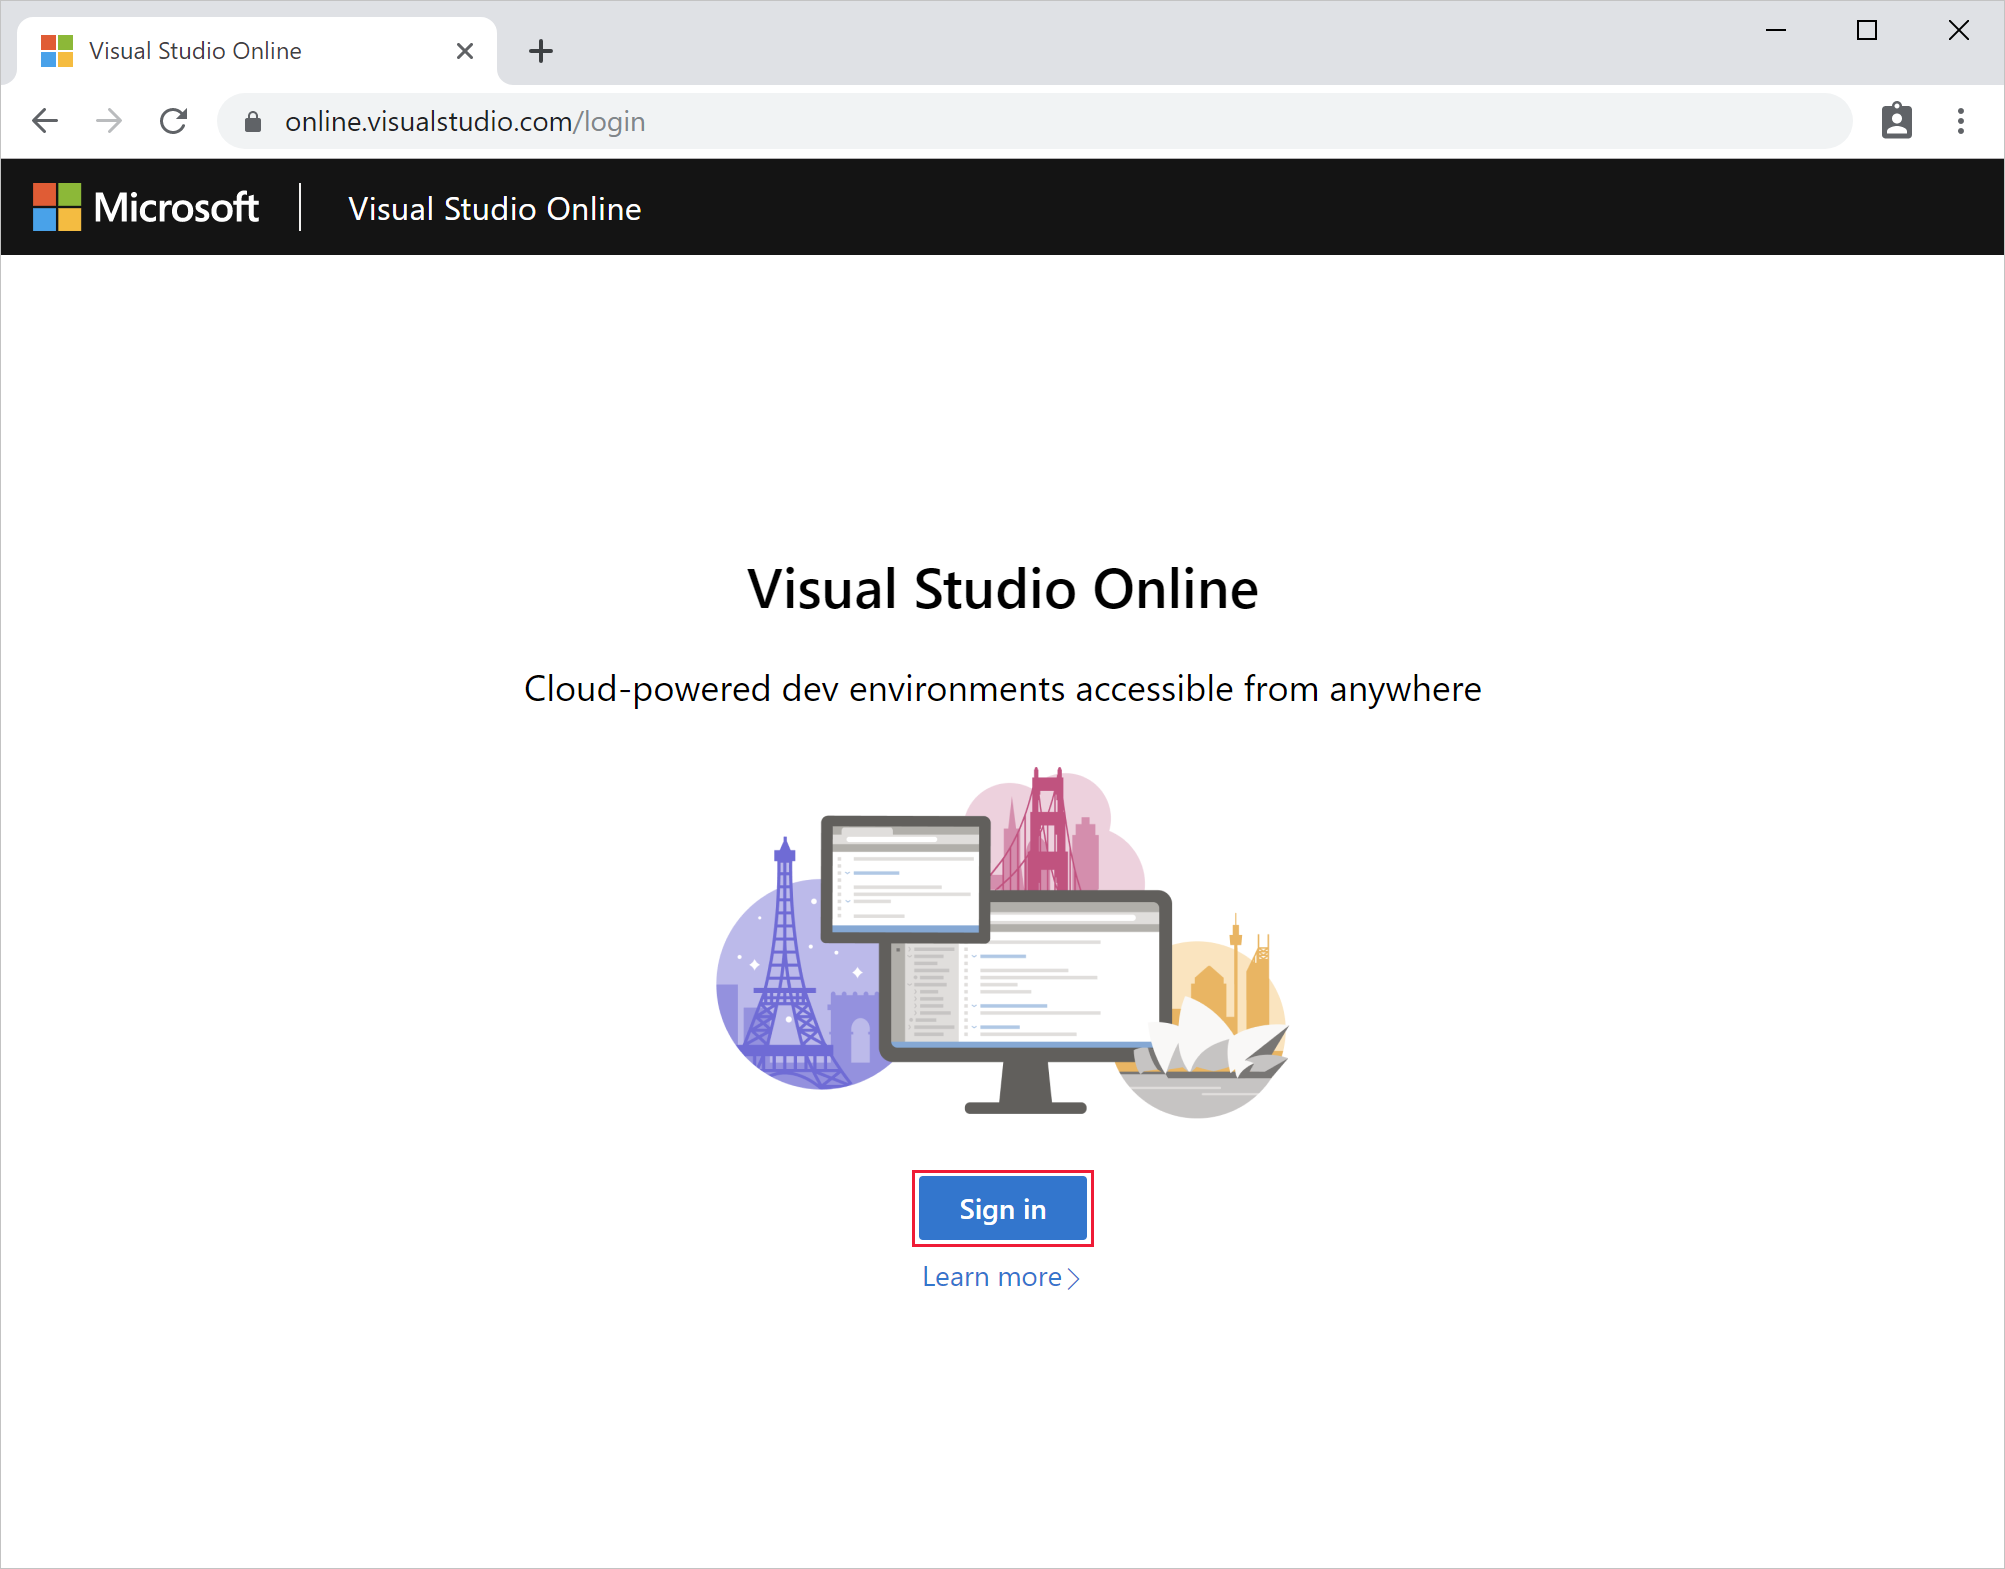
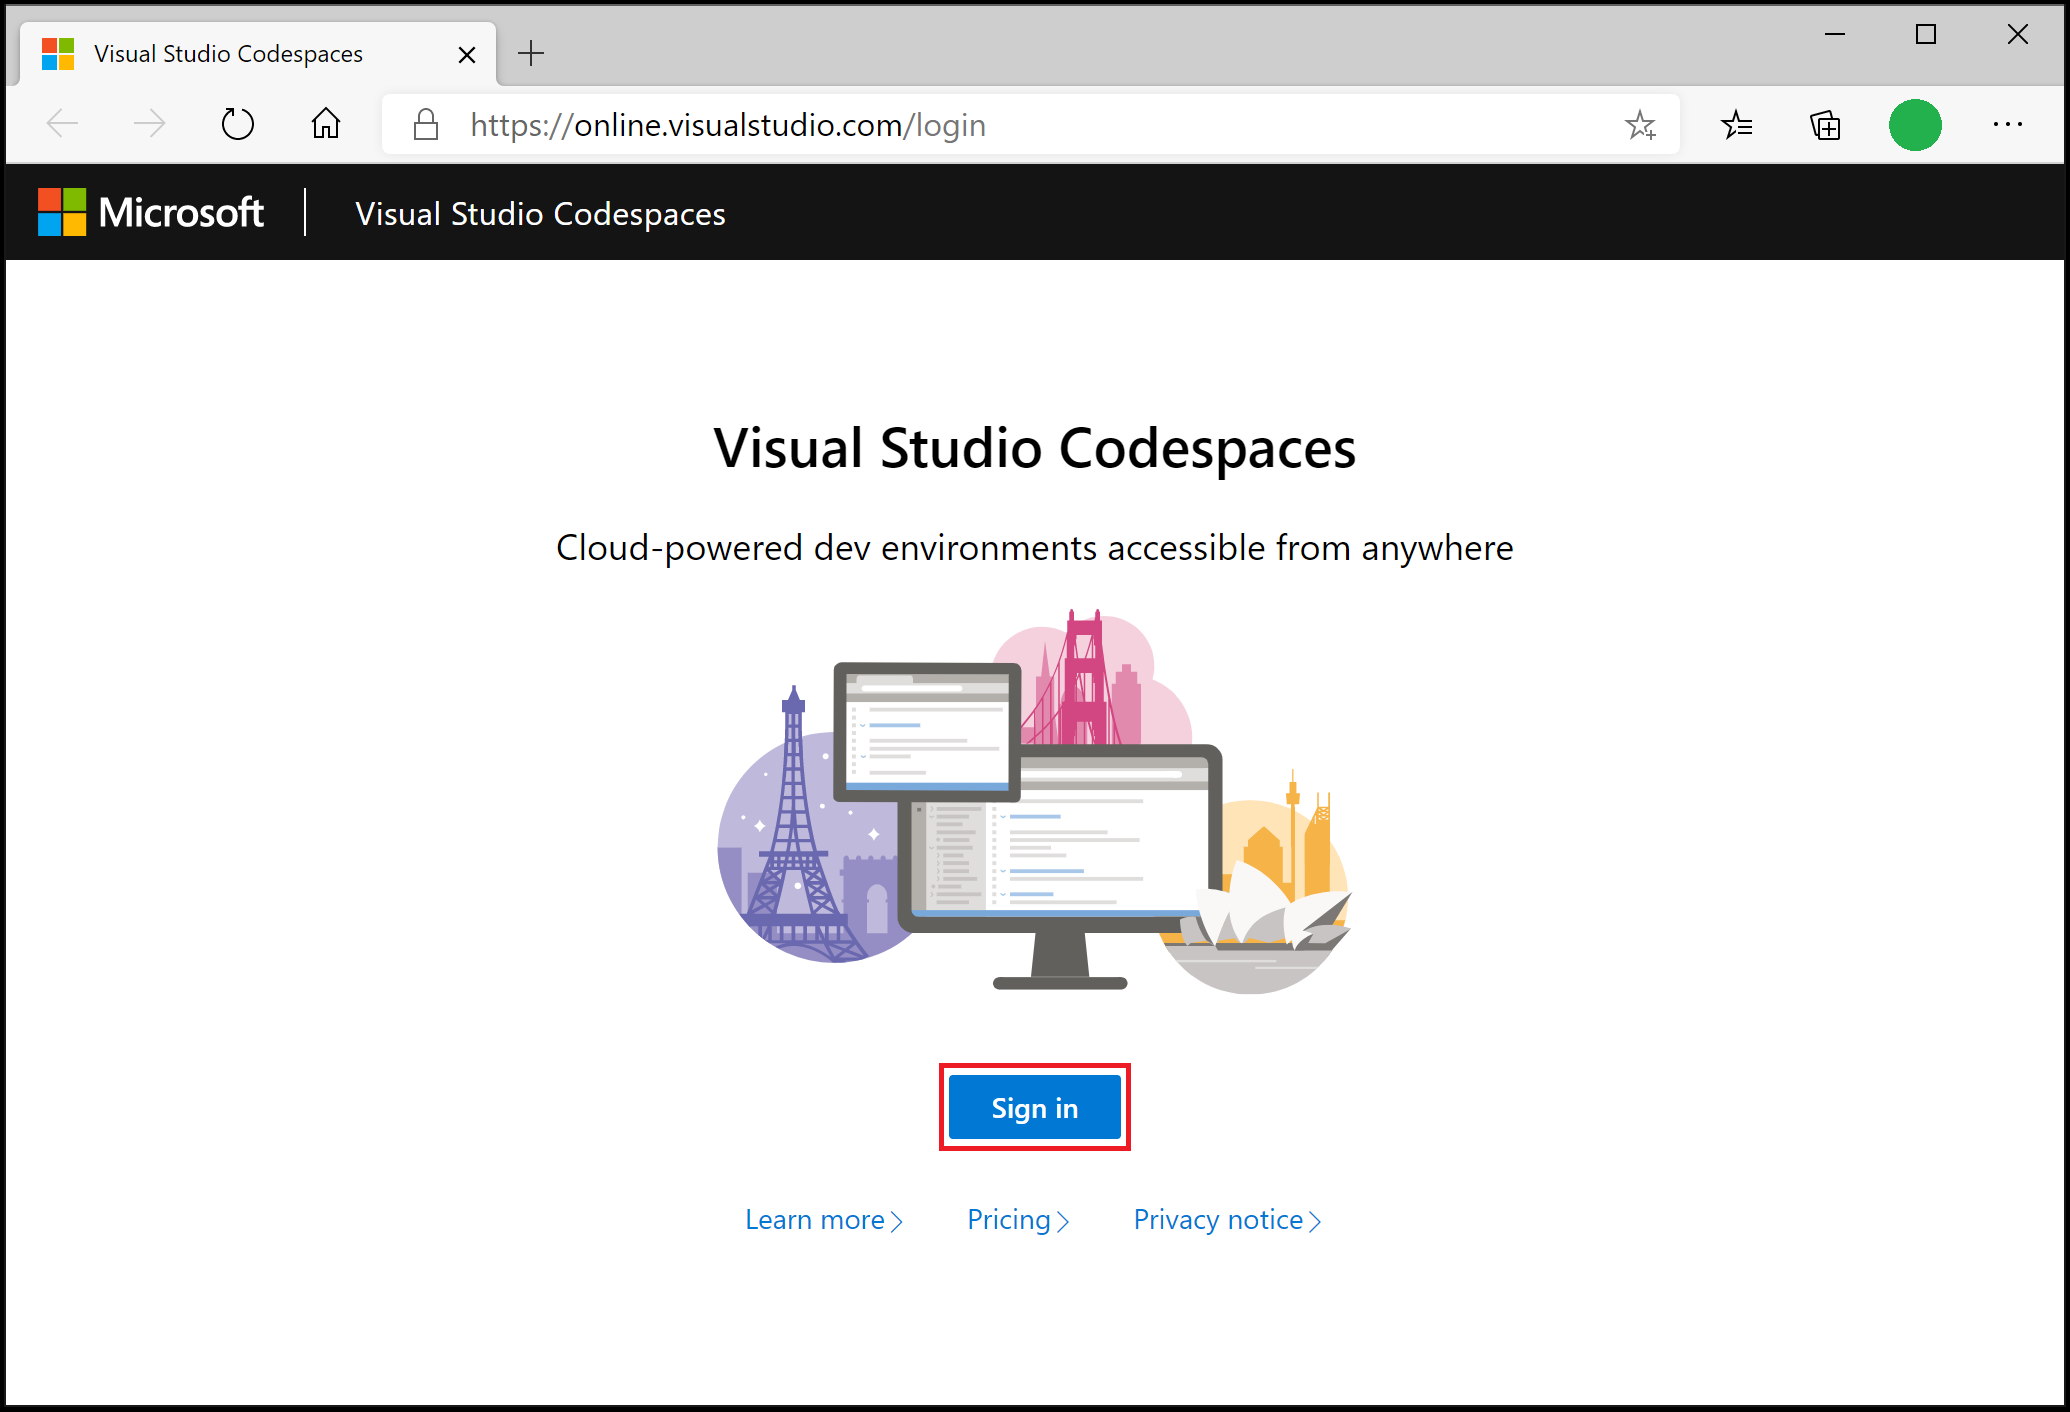
Update browser quickstart

diff --git a/vscodespaces/quickstarts/browser.md b/vscodespaces/quickstarts/browser.md
@@ -11,7 +11,7 @@ ms.date: 05/13/2020
 
 Visual Studio Codespaces provides cloud-powered development environments for any activity - whether it's a long-term project, or a short-term task like reviewing a pull request. You can work with these environments from Visual Studio Code, Visual Studio 2019 ([sign up for the Private Preview](https://aka.ms/vsfutures-signup)), or a browser-based editor that's accessible anywhere! You can even connect your own self-hosted environments to Visual Studio Codespaces at no cost.
 
-Additionally, Visual Studio Codespaces brings many of the benefits of DevOps, like repeatability and reliability, which have typically been reserved for production workloads, to development environments. However, Visual Studio Codespaces is also personaliazable to allow developers to leverage the tools, processes and configurations that they have come to love and rely on - truly the best of both worlds!
+Additionally, Visual Studio Codespaces brings many of the benefits of DevOps, like repeatability and reliability, which have typically been reserved for production workloads, to development environments. However, Visual Studio Codespaces is also personaliazable to allow developers to leverage the tools, processes, and configurations that they have come to love and rely on - truly the best of both worlds!
 
 This document will walk you through how to install Codespaces, create a cloud-hosted environment, connect to it, run and debug the environment's application, disconnect and delete the environment.
 
@@ -28,64 +28,69 @@ Follow the prompts in the pop-up dialog to complete sign in.
 
 ## 2. Create a plan
 
-A Codespaces plan is required to create Codespaces environments. To create a new plan and either use the blue **Create new plan** button, or by click the **Create new plan** in the **Plan Selector** menu in the header bar.
+A Codespaces plan is required to create Codespaces environments. To create a new plan, use either the **Create new plan** item in the **Plan Selector** menu in the header bar or the **Create Codespace** button, which will create a new plan as part of the create codespace workflow.
 
 ![Create Visual Studio Codespaces plan](../images/create-plan-vso-01.png)
 
 Fill in the form with the following information:
 
 - **Subscription**: Choose any existing Azure subscription you'd like.
-- **Resource Group**: Choose any existing Azure resource group you'd like.
-- **Region**: Choose the supported regions geographically closest to you. Supported regions are:
+- **Location**: Choose the supported regions geographically closest to you. Supported locations are:
   - East US
   - Southeast Asia
   - West Europe
   - West US 2
-- **Plan Name**: My-VSO-Plan
+
+And under **Advanced Options**, you can leave the automatically generated values or set your own for:
+
+- **Plan Name**: For example: "My-Codespaces-Plan"
+- **Resource Group**: Choose any existing Azure resource group you'd like. A new resource group will be created if an existing one isn't specified.
 
 Once a plan is created, it will be the selected plan in the **Plan Selector**.
 
 > [!TIP]
-> More information about plans and pricing is available on [the Codespaces pricing page](https://aka.ms/vso-pricing).
+> More information about plans and pricing is available on the [Codespaces pricing page](https://aka.ms/vso-pricing).
 
-## 3. Create an environment
+## 3. Create a codespace
 
-To create a new cloud-hosted environment in Codespaces select the **Create environment** button in the Codespaces management portal.
-
-![Create environment in Visual Studio Code](../images/create-env-vso-01.png)
+To create a new cloud-hosted codespace, fill in the **Create Codespace** form. The form will be shown after you create a plan if you selected the **Create Codespace** button earlier or by selecting the **Create Codespace** button now in the Codespaces management portal.
 
 Complete the form with the following values:
 
-- **Environment Name**: My Quick Environment
+- **Codespace Name**: My Quick Environment
 - **Git Repository**: microsoft/vsonline-quickstart
-- **Put environment to sleep after...**: 30 minutes
-- **Instance Type**: Standard Environment (Linux)
+- **Instance Type**: Standard (Linux)
+- **Suspend idle Codespace after...**: 30 minutes
 
 > [!TIP]
 > [Sign up for the Private Preview](https://aka.ms/vsfutures-signup) to create Windows based Codespaces.
 
-![Create environment in Visual Studio Code](../images/create-quickstart-vso-02.png)
+![Create codespace in Codespaces management portal](../images/create-quickstart-vso-02.png)
 
-A card with the name **My Quick Environment** will appear in the management portal with a status badge of **Creating**.
+Once you've filled in the form, select **Create**. This will begin creating your codespace and open the codespace in your browser when it is finished.
 
-## 4. Connect to and use the environment
+If you go back to the management portal, there will be a new card with the name **My Quick Environment** and a status badge of **Available**.
 
-Once the green **Available** status badge appears on the environment card, click **My Quick Environment** to connect.
+## 4. Working in your codespace
 
-Once connected, open **Readme.md** from **File Explorer**, and then press [`ctrl`]+[`shift`]+[`V`] to render the markdown file.
+The codespace will have several editors open; the **Welcome** page, the quickstart repository's `README.md`, as well as the codespace **Creation Log** in a side editor group.
 
-Follow the instructions in **Readme.md**, and return to this document when complete.
+Close the **Creation Log** and select the `README.md` editor tab. You can then press [`ctrl`]+[`shift`]+[`V`] to render the Markdown file.
 
-## 5. Delete the environment
+Follow the instructions in `README.md`, and return to this document when complete.
 
-To delete the newly created environment, click the context menu on the **My Quick Environment** card and select **Delete**.
+You can return to the Codespaces management portal with your browser's back navigation. To reconnect to the codespace, select the **My Quick Environment** link in the codespace card.
 
-![Delete in Visual Studio Codespaces](../images/delete-env-vso-01.png)
+## 5. Delete the codespace
+
+To delete the newly created codespace, open the **More** options menu in the lower right of the **My Quick Environment** card and select **Delete**.
+
+![Delete in Visual Studio Codespaces management portal](../images/delete-env-vso-01.png)
 
 ## Next steps
 
 This article covered a typical end-to-end use of Codespaces. For more information, see:
 
-- [What is Codespaces?](../overview/what-is-vsonline.md)
+- [What are Codespaces?](../overview/what-is-vsonline.md)
 - [Codespaces with Visual Studio 2019 quickstart](../quickstarts/vs.md)
 - [Codespaces with VS Code quickstart](../quickstarts/vscode.md)
